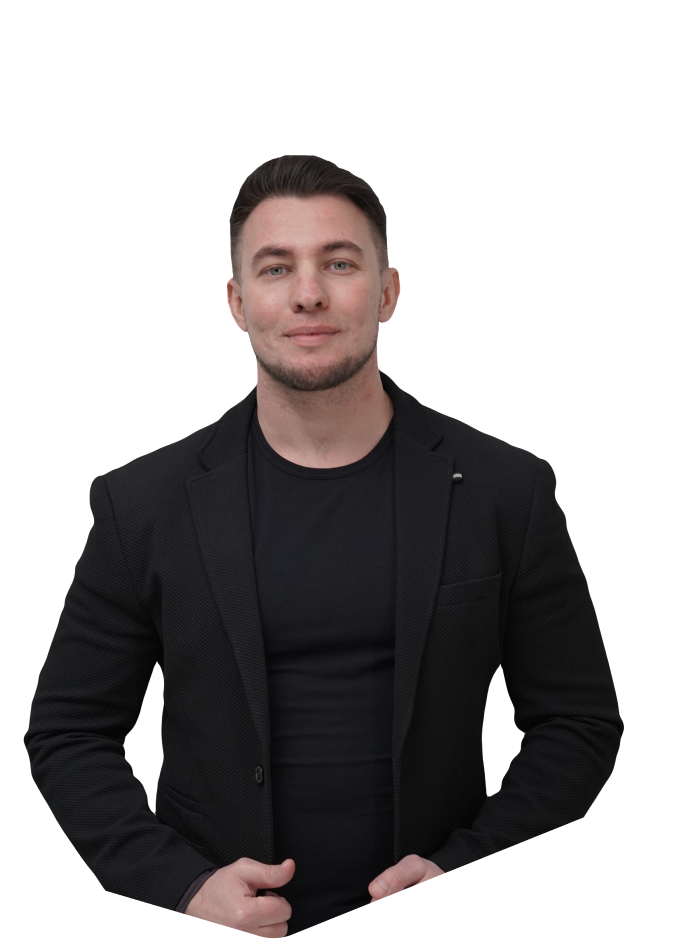
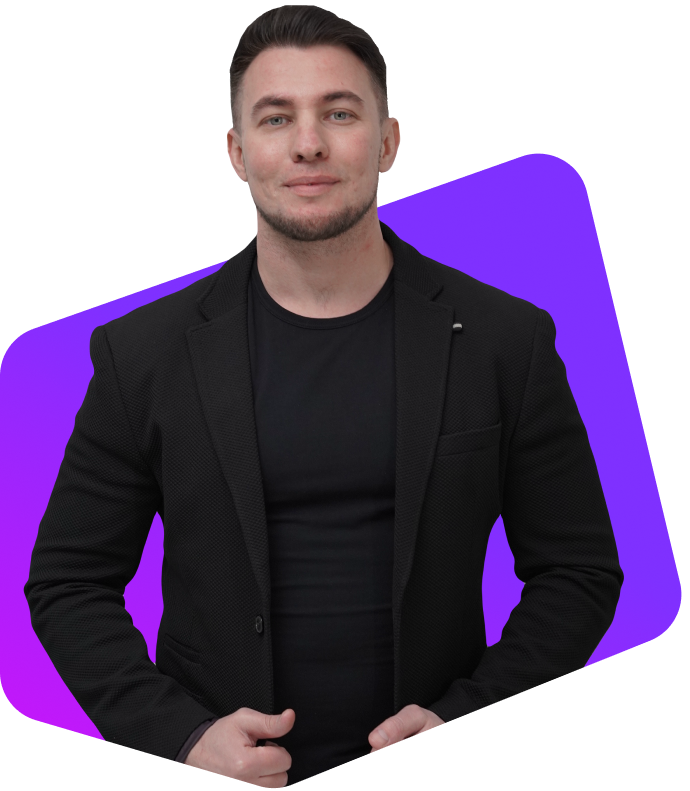
MAinPage adaptation

diff --git a/src/pages/PresentationPage/PresentationPage.style.ts b/src/pages/PresentationPage/PresentationPage.style.ts
@@ -2,7 +2,8 @@ import styled from "styled-components";
 
 export const ThemePresentationPage = styled.div`
   display: flex;
-  flex-direction: column;
+  flex-direction: row;
+  flex-wrap: wrap;
   align-items: left;
   text-align: left;
   background: #00000c;
@@ -13,7 +14,19 @@ export const ThemePresentationPage = styled.div`
   left: 0;
   top: 0;
   color: #fff;
-  padding: 120px 122px;
+  padding: calc(35.4vh - 112px) calc(5.85vw + 7px);
+  padding-bottom: calc(14.6vh - 38px);
+  gap: calc(4.94vw + 5px);
+
+  @media (max-width: 1050px) {
+    gap: 0;
+  }
+
+  @media (max-width: 685px) {
+    padding: calc(35.4vh - 162px) calc(5.85vw + 7px);
+    gap: 70px;
+    flex-direction: column;
+  }
 `;
 
 export const Title = styled.h1`
@@ -24,8 +37,8 @@ export const Title = styled.h1`
   //TODO:Поставить шрифт
   font-family: sans-serif;
   text-transform: lowercase;
-  font-size: 115px;
-  width: 903px;
+  font-size: calc(5.86vw + 18px);
+  width: calc(41.1vw + 113.5px);
   z-index: 1;
   margin: 0;
   padding: 0;
@@ -35,8 +48,8 @@ export const Subtitle = styled.p`
   //TODO:Поставить шрифт
 
   color: #fff;
-  font-size: 28px;
-  margin-top: 0;
+  font-size: calc(1.6vw + 5px);
+  margin: 0;
   z-index: 1;
 `;
 
@@ -44,8 +57,9 @@ export const Quote = styled.p`
   //TODO:Поставить шрифт
 
   color: #fff;
-  font-size: 28px;
+  font-size: calc(1.17vw + 5.5px);
   margin: 45px 0;
+  display: flex;
   z-index: 1;
 `;
 
@@ -53,25 +67,34 @@ export const ButtonsContainer = styled.div`
   display: flex;
   justify-content: center;
   align-items: center;
-  width: 730px;
-  height: 78px;
+  width: calc(31vw + 151px);
+  height: calc(12.7vh - 29px);
+  @media (max-width: 1050px) {
+    height: calc(12.7vh - 49px);
+  }
   #backBtn {
     border-radius: 28px;
-    width: 730px;
-    height: 78px;
+    width: calc(31vw + 151px);
+    height: calc(12.7vh - 29px);
     background: #00000c;
     position: absolute;
     z-index: 1;
+    @media (max-width: 1050px) {
+      height: calc(12.7vh - 49px);
+    }
   }
 
   #borderBtn {
     background: linear-gradient(90deg, #ff00e0, #7500ff) #1c1c1c;
-    width: 734px;
-    height: 82px;
+    width: calc(31vw + 156px);
+    height: calc(12.7vh - 25px);
     border-radius: 28px;
 
     position: absolute;
     z-index: 0;
+    @media (max-width: 1050px) {
+      height: calc(12.7vh - 45px);
+    }
   }
 `;
 
@@ -81,11 +104,11 @@ export const Button = styled.button<{ primary?: boolean }>`
   color: white;
   border: none;
   padding: 15px 25px;
-  height: 78px;
+  height: calc(12.7vh - 29px);
   transition: 550ms;
   font-family: sans-serif;
   font-weight: 500;
-  font-size: 24px;
+  font-size: calc(1.1vw + 4px);
   cursor: pointer;
   z-index: 2;
   transition: background-color 0.3s ease, opacity 0.3s ease;
@@ -93,11 +116,16 @@ export const Button = styled.button<{ primary?: boolean }>`
   border-bottom-right-radius: 28px;
   ${({ primary }) =>
     primary &&
-    "border-top-left-radius: 26px; border-bottom-left-radius: 26px; width: 497px;"}
-  ${({ primary }) => !primary && "background:  0; width: 233px; "}
+    "border-top-left-radius: 26px; border-bottom-left-radius: 26px; width: calc(20.2vw + 109px);"}
+  ${({ primary }) => !primary && "background:  0; width: calc(10.8vw + 37px); "}
 
   &:hover {
     opacity: 0.85;
+  }
+
+  @media (max-width: 1050px) {
+    height: calc(12.7vh - 49px);
+    padding: 0;
   }
 `;
 
@@ -108,6 +136,10 @@ export const Gradient1 = styled.img`
   top: -150px;
   right: -50px;
   z-index: 0;
+
+  @media (max-width: 1050px) {
+    display: none;
+  }
 `;
 export const Gradient2 = styled.img`
   width: 600px;
@@ -140,22 +172,22 @@ export const Gradient2pre = styled.img`
   border-radius: 60%;
 `;
 
-export const OwnerPlace = styled.img`
-  width: 570px;
-  height: 520px;
-  position: absolute;
-  right: 120px;
-  bottom: 57px;
-  z-index: 1;
-`;
-
 export const Owner = styled.img`
-  width: 566px;
-  height: 750px;
+  width: calc(28.14vw + 100px);
+  margin-top: -15vh;
   position: absolute;
-  right: 120px;
-  bottom: 55px;
   z-index: 1;
+  @media (max-width: 1150px) {
+    margin-top: -10vh;
+  }
+  @media (max-width: 915px) {
+    width: calc(28.14vw + 50px);
+    margin-top: -5vh;
+  }
+  @media (max-width: 685px) {
+    width: calc(35.14vw + 130px);
+    margin-left: 2rem;
+  }
 `;
 
 export const PresentationItSelf = styled.div`

diff --git a/src/pages/PresentationPage/PresentationPage.tsx b/src/pages/PresentationPage/PresentationPage.tsx
@@ -2,7 +2,6 @@ import {
   Gradient1,
   Gradient2,
   Owner,
-  OwnerPlace,
   ThemePresentationPage,
 } from "./PresentationPage.style";
 import {
@@ -28,7 +27,6 @@ export const PresentationPage = () => {
         </ButtonsContainer>
       </div>
       <div>
-        <OwnerPlace src="OwnerPlace.png" alt="IQOwnerPlace" />
         <Owner src="Owner.png" alt="IQOwner" />
       </div>
       <Gradient1 src="Gradient1.png" alt="Decoration1" />
